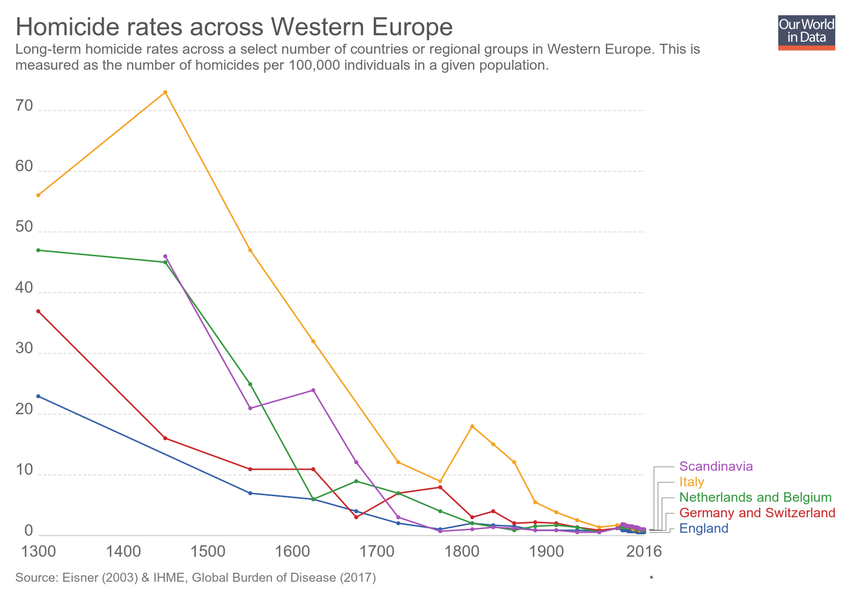
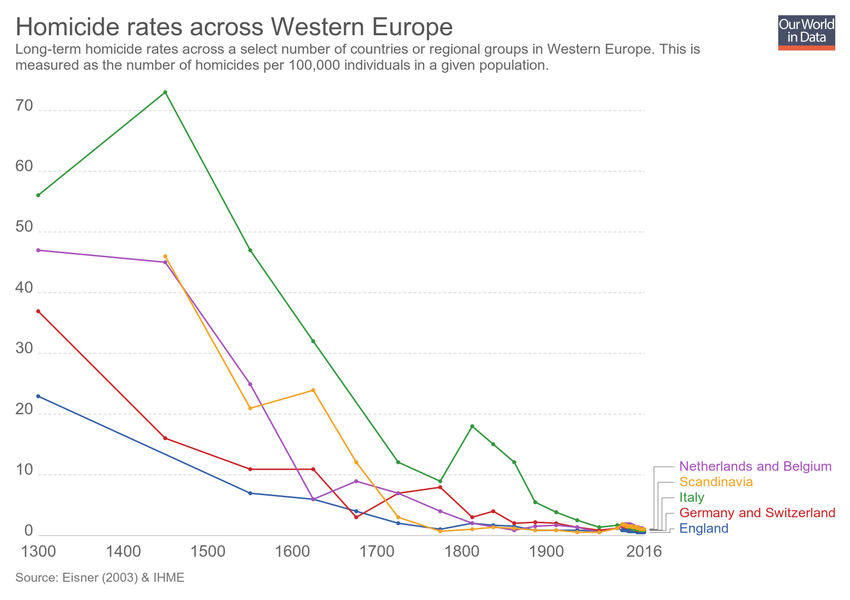
Updating chart homicide-rates-across-western-europe

diff --git a/grapher/homicide-rates-across-western-europe.html b/grapher/homicide-rates-across-western-europe.html
@@ -1,4 +1,4 @@
-<!doctype html><html><head><meta name="viewport" content="width=device-width, initial-scale=1" /><title>Homicide rates across Western Europe - Our World in Data</title><meta name="description" content="Long-term homicide rates across a select number of countries or regional groups in Western Europe. This is measured as the number of homicides per 100,000 individuals in a given population." /><link rel="canonical" href="https://ourworldindata.org/grapher/homicide-rates-across-western-europe" /><meta property="fb:app_id" content="1149943818390250" /><meta property="og:url" content="https://ourworldindata.org/grapher/homicide-rates-across-western-europe" /><meta property="og:title" content="Homicide rates across Western Europe" /><meta property="og:description" content="Long-term homicide rates across a select number of countries or regional groups in Western Europe. This is measured as the number of homicides per 100,000 individuals in a given population." /><meta property="og:image" content="https://ourworldindata.org/grapher/exports/homicide-rates-across-western-europe.png?v=2" /><meta property="og:image:width" content="850" /><meta property="og:image:height" content="600" /><meta property="og:site_name" content="Our World in Data" /><meta name="twitter:card" content="summary_large_image" /><meta name="twitter:site" content="@OurWorldInData" /><meta name="twitter:creator" content="@OurWorldInData" /><meta name="twitter:title" content="Homicide rates across Western Europe" /><meta name="twitter:description" content="Long-term homicide rates across a select number of countries or regional groups in Western Europe. This is measured as the number of homicides per 100,000 individuals in a given population." /><meta name="twitter:image" content="https://ourworldindata.org/grapher/exports/homicide-rates-across-western-europe.png?v=2" /><style>
+<!doctype html><html><head><meta name="viewport" content="width=device-width, initial-scale=1" /><title>Homicide rates across Western Europe - Our World in Data</title><meta name="description" content="Long-term homicide rates across a select number of countries or regional groups in Western Europe. This is measured as the number of homicides per 100,000 individuals in a given population." /><link rel="canonical" href="https://ourworldindata.org/grapher/homicide-rates-across-western-europe" /><meta property="fb:app_id" content="1149943818390250" /><meta property="og:url" content="https://ourworldindata.org/grapher/homicide-rates-across-western-europe" /><meta property="og:title" content="Homicide rates across Western Europe" /><meta property="og:description" content="Long-term homicide rates across a select number of countries or regional groups in Western Europe. This is measured as the number of homicides per 100,000 individuals in a given population." /><meta property="og:image" content="https://ourworldindata.org/grapher/exports/homicide-rates-across-western-europe.png?v=3" /><meta property="og:image:width" content="850" /><meta property="og:image:height" content="600" /><meta property="og:site_name" content="Our World in Data" /><meta name="twitter:card" content="summary_large_image" /><meta name="twitter:site" content="@OurWorldInData" /><meta name="twitter:creator" content="@OurWorldInData" /><meta name="twitter:title" content="Homicide rates across Western Europe" /><meta name="twitter:description" content="Long-term homicide rates across a select number of countries or regional groups in Western Europe. This is measured as the number of homicides per 100,000 individuals in a given population." /><meta name="twitter:image" content="https://ourworldindata.org/grapher/exports/homicide-rates-across-western-europe.png?v=3" /><style>
         html, body {
             height: 100%;
             margin: 0;
@@ -20,8 +20,8 @@
         }
     </style><noscript><style>
                     figure { display: none !important; }
-                </style></noscript><link rel="stylesheet" href="https://ourworldindata.org/grapher/assets/commons.bundle.1fb9afe5c9103588de22.css" /><link rel="preload" href="/grapher/data/variables/97487.json?v=2" as="fetch" crossorigin /></head><body class="singleChart"><figure data-grapher-src="/grapher/homicide-rates-across-western-europe"></figure><noscript id="fallback"><img src="/grapher/exports/homicide-rates-across-western-europe.svg" /><p>Interactive visualization requires JavaScript</p></noscript><script src="https://cdn.polyfill.io/v2/polyfill.min.js?features=es6,fetch"></script><script src="https://ourworldindata.org/grapher/assets/commons.bundle.1fb9afe5c9103588de22.js"></script><script src="https://ourworldindata.org/grapher/assets/charts.bundle.1fb9afe5c9103588de22.js"></script><script>
-        var jsonConfig = {"id":2696,"map":{"projection":"World","colorSchemeLabels":[],"colorSchemeValues":[],"customNumericColors":[],"customCategoryColors":{},"customCategoryLabels":{},"customHiddenCategories":{}},"tab":"chart","slug":"homicide-rates-across-western-europe","type":"LineChart","title":"Homicide rates across Western Europe","xAxis":{"scaleType":"linear"},"yAxis":{"min":0,"scaleType":"linear"},"version":2,"subtitle":"Long-term homicide rates across a select number of countries or regional groups in Western Europe. This is measured as the number of homicides per 100,000 individuals in a given population.","hasMapTab":false,"stackMode":"absolute","dimensions":[{"display":{"numDecimalPlaces":1},"property":"y","variableId":97487}],"sourceDesc":"Eisner (2003) & IHME, Global Burden of Disease (2017)","hasChartTab":true,"isPublished":true,"selectedData":[{"index":0,"entityId":16818},{"index":0,"entityId":37543},{"index":0,"entityId":8},{"index":0,"entityId":37541},{"index":0,"entityId":37542}],"addCountryMode":"add-country"};
+                </style></noscript><link rel="stylesheet" href="https://ourworldindata.org/grapher/assets/commons.bundle.1fb9afe5c9103588de22.css" /><link rel="preload" href="/grapher/data/variables/97487.json?v=3" as="fetch" crossorigin /></head><body class="singleChart"><figure data-grapher-src="/grapher/homicide-rates-across-western-europe"></figure><noscript id="fallback"><img src="/grapher/exports/homicide-rates-across-western-europe.svg" /><p>Interactive visualization requires JavaScript</p></noscript><script src="https://cdn.polyfill.io/v2/polyfill.min.js?features=es6,fetch"></script><script src="https://ourworldindata.org/grapher/assets/commons.bundle.1fb9afe5c9103588de22.js"></script><script src="https://ourworldindata.org/grapher/assets/charts.bundle.1fb9afe5c9103588de22.js"></script><script>
+        var jsonConfig = {"id":2696,"map":{"projection":"World","colorSchemeLabels":[],"colorSchemeValues":[],"customNumericColors":[],"customCategoryColors":{},"customCategoryLabels":{},"customHiddenCategories":{}},"tab":"chart","slug":"homicide-rates-across-western-europe","type":"LineChart","title":"Homicide rates across Western Europe","xAxis":{"scaleType":"linear"},"yAxis":{"min":0,"scaleType":"linear"},"version":3,"subtitle":"Long-term homicide rates across a select number of countries or regional groups in Western Europe. This is measured as the number of homicides per 100,000 individuals in a given population.","hasMapTab":false,"stackMode":"absolute","dimensions":[{"display":{"numDecimalPlaces":1},"property":"y","variableId":97487}],"sourceDesc":"Eisner (2003) & IHME","hasChartTab":true,"isPublished":true,"selectedData":[{"index":0,"entityId":16818},{"index":0,"entityId":37543},{"index":0,"entityId":8},{"index":0,"entityId":37541},{"index":0,"entityId":37542}],"addCountryMode":"add-country"};
         var figure = document.getElementsByTagName("figure")[0];
         try {
             window.App = {};
